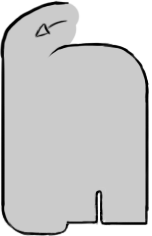
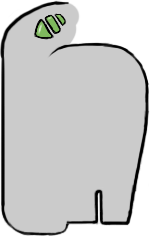
Add new Assets

Changed region(s): [[0.4737, 0.4746, 1.0, 0.9788], [0.2105, 0.0593, 0.4474, 0.178]]

diff --git a/Source/SceneGame.cpp b/Source/SceneGame.cpp
@@ -26,9 +26,9 @@ bool SceneGame::Start()
 	CreateMap();
 
 	bg = _app->textures->Load("Assets/Images/Game/BG.png");
+	fg = _app->textures->Load("Assets/Images/Game/FG.png");
 	gameover = _app->textures->Load("Assets/Images/Game/GameOver.png");
 	lifes = _app->textures->Load("Assets/Images/Game/Life_icon.png");
-
 
 	for (int i = 0; i < 3; i++)
 	{
@@ -96,12 +96,12 @@ bool SceneGame::Start()
 	sBallSpringR = new Sensor({ 488, 815, 10, 5 }, -1, "SensorBSR", "SpringSensorSave", _app);
 	sBallSpringL = new Sensor({ 93, 815, 10, 5 }, -1, "SensorBSL", "SpringSensorSave", _app);
 
-	sTeleportIn = new Sensor({ 90, 415, 10,10 }, -1, "SensorT", "Sensor", _app);
+	sTeleportIn = new Sensor({ 90, 400, 10,2 }, -1, "SensorT", "Sensor", _app);
 	Cannon1 = new CannonSensor({ 107,288,10,10 }, -1, "SensorC1", "SensorC1", _app);
 	Cannon2 = new CannonSensor({ 166,288,10,10 }, -1, "SensorC2", "SensorC2", _app);
 	Cannon3 = new CannonSensor({ 227,288,10,10 }, -1, "SensorC3", "SensorC3", _app);
 
-	deathSensor = new Sensor({ 288, 935, 68, 1 }, -1, "DeathSensor", "Sensor", _app);
+	deathSensor = new Sensor({ 288, 935, 75, 1 }, -1, "DeathSensor", "Sensor", _app);
 
 	#pragma region Add gameObjects to the main array
 
@@ -373,8 +373,11 @@ bool SceneGame::PostUpdate()
 {
 	if(!gamefinished)
 	{
-		//BackGround
+		// BackGround
 		_app->renderer->AddTextureRenderQueue(bg, { 0,0 }, nullptr, 1.0f, 0, 1.0f);
+
+		// ForeGround
+		_app->renderer->AddTextureRenderQueue(fg, { 0,0 }, nullptr, 1.0f, 1, 2.0f);
 
 		// GameObjects
 		for (int i = 0; i < gameObjects.count(); i++)

diff --git a/Source/SceneGame.h b/Source/SceneGame.h
@@ -96,6 +96,9 @@ public:
     
     // background
     SDL_Texture* bg; 
+    // foreground
+    SDL_Texture* fg;
+
     SDL_Texture* gameover;
     SDL_Texture* lifes;
     
